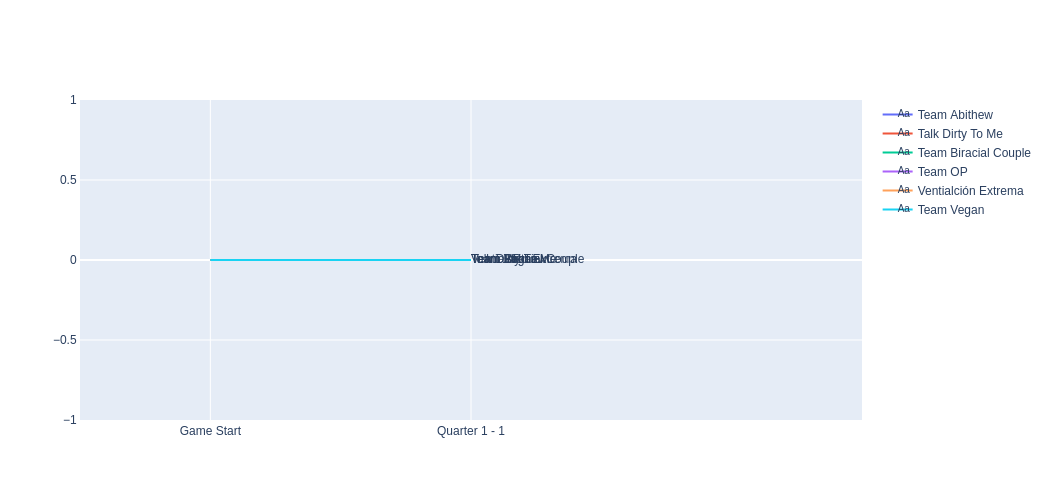
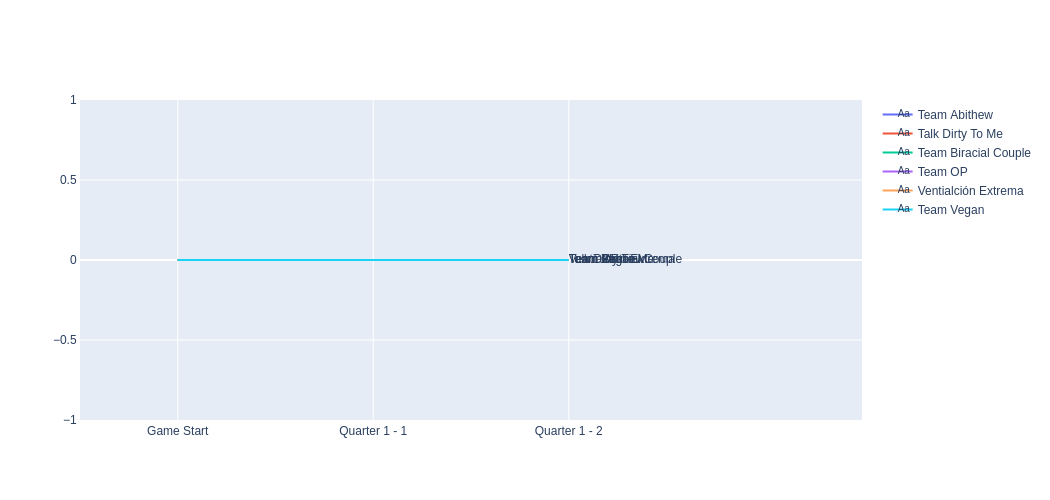
Live Edits

diff --git a/Trivia/Live_Tracker.html b/Trivia/Live_Tracker.html
@@ -13,7 +13,7 @@
         document.getElementById("title").innerHTML = "Trivia Live Scoring - " + m + "/" + d + "/" + y;
         </script>
         <div><img src = "img/fig1.png"></div>
-        <div>1 person (17%) got question 1-1 correct.</div>
+        <div>0 people (0%) got question 1-2 correct.</div>
         
         </body>
         </html>
